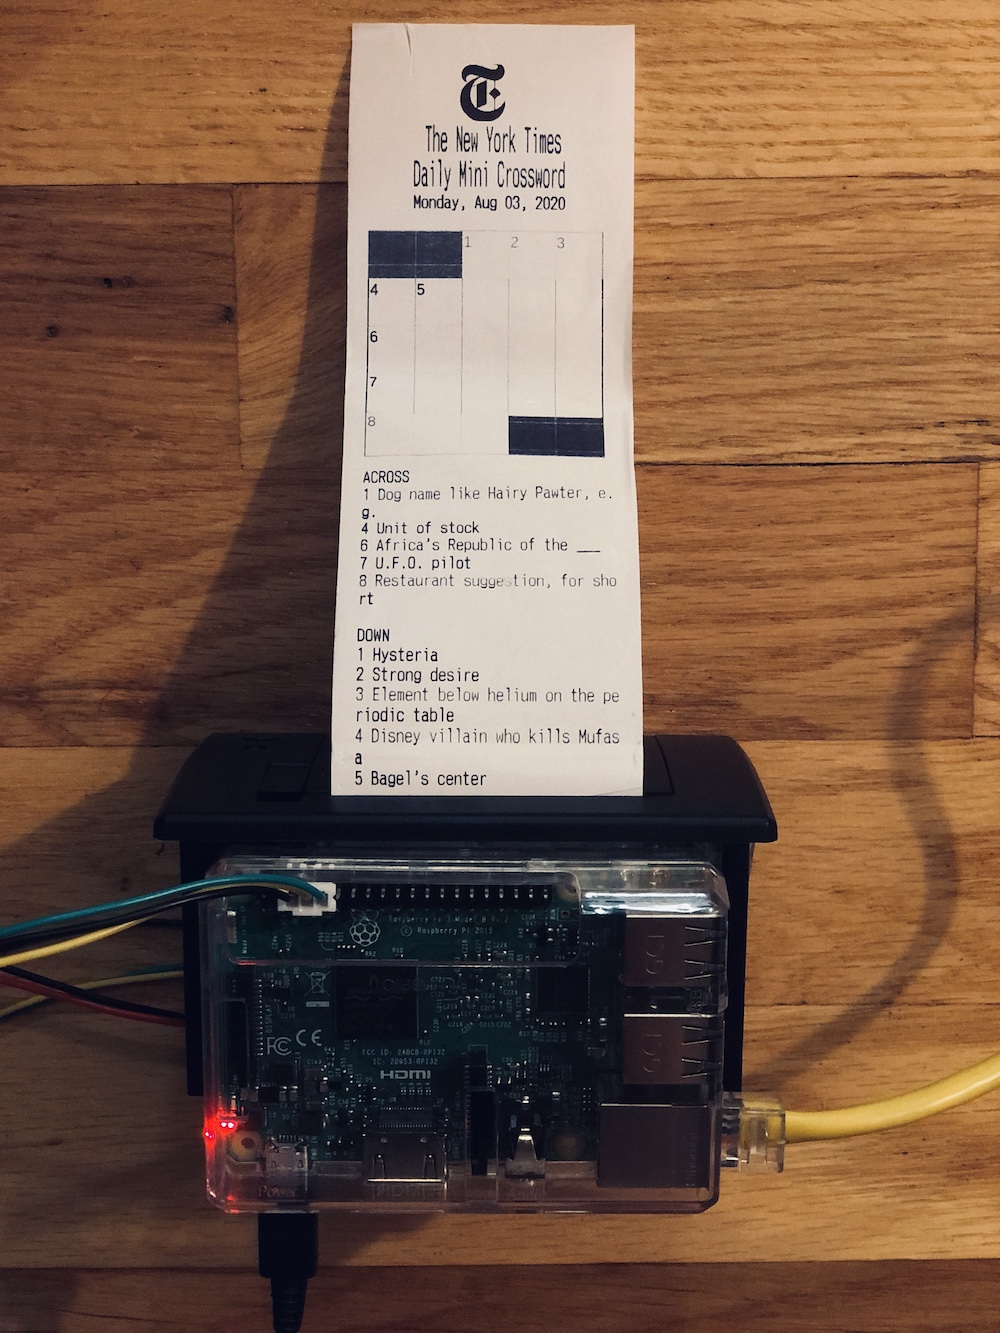
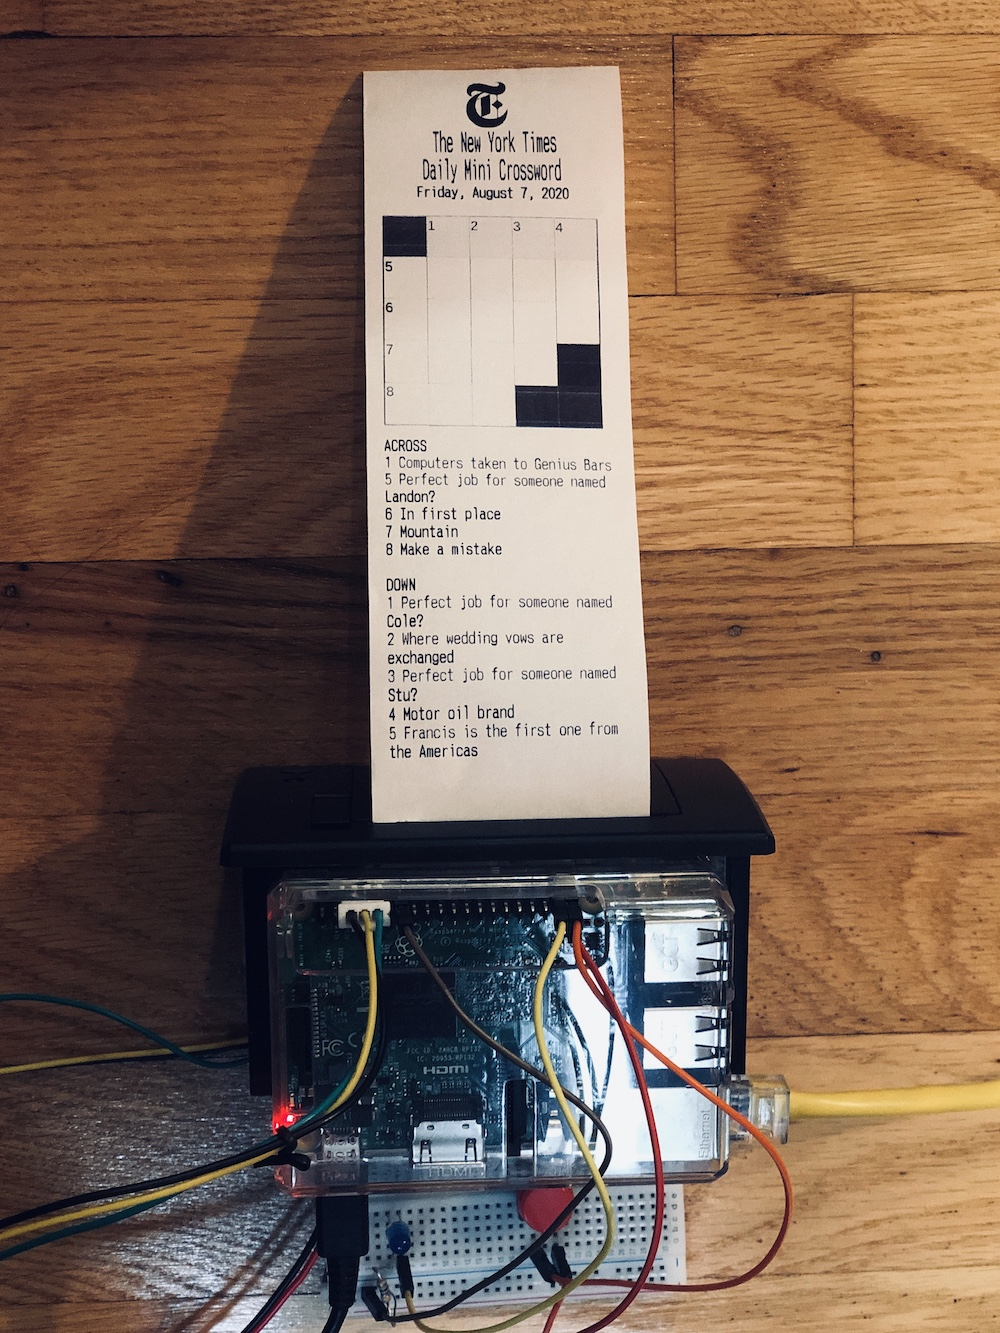
Update pics, readme

diff --git a/README.md b/README.md
@@ -15,6 +15,15 @@ My creation was inspired by the [Vomit Comic Robot](https://imgur.com/a/hhrnQoC#
 - 5V 3A Power Supply Charger
 - Ethernet cable
 
+*For button and light functionality*
+- LED
+- push button
+- female-to-male jumper wires x4
+- resistor
+- breadboard
+
+![materials](images/materials.jpg)
+
 ### Headless Raspberry Pi + thermal printer setup
 1. Flash a [Raspberry Pi OS](https://www.raspberrypi.org/downloads/raspberry-pi-os/) image to micro SD card with [Etcher](https://www.balena.io/etcher) (note: don't need the version with the extra 'recommended software', but may need at least the full vs lite image)
 1. Enable SSH on the rpi by adding a blank `ssh` file in the `/boot` directory of the SD card
@@ -22,6 +31,9 @@ My creation was inspired by the [Vomit Comic Robot](https://imgur.com/a/hhrnQoC#
 1. Connect ethernet cable between the rpi and router
 1. SSH into the rpi
 1. Follow [Adafruit’s tutorial](https://learn.adafruit.com/networked-thermal-printer-using-cups-and-raspberry-pi/connect-and-configure-printer) to connect and configure the rpi to the printer
+
+### LED and button trigger
+// TODO
 
 ### NYT Mini Bot scripts
 *Requirements: npm, Node v14+, Python 3.7+ (pre-installed on newer rpi OS images)*
@@ -37,3 +49,4 @@ This Python script executes the xword-fetcher script, connects to the thermal pr
 1. SSH into the rpi and clone this repo
 1. Run `./install.sh` (note: the first sections of this install script overlaps with the printer tutorial steps from above; can skip. Just make sure the `Python-Thermal-Printer/Adafruit_Thermal.py` file is copied within the nyt-mini-bot repo)
 1. Run `./xword-printer.py`
+1. Press the button!
